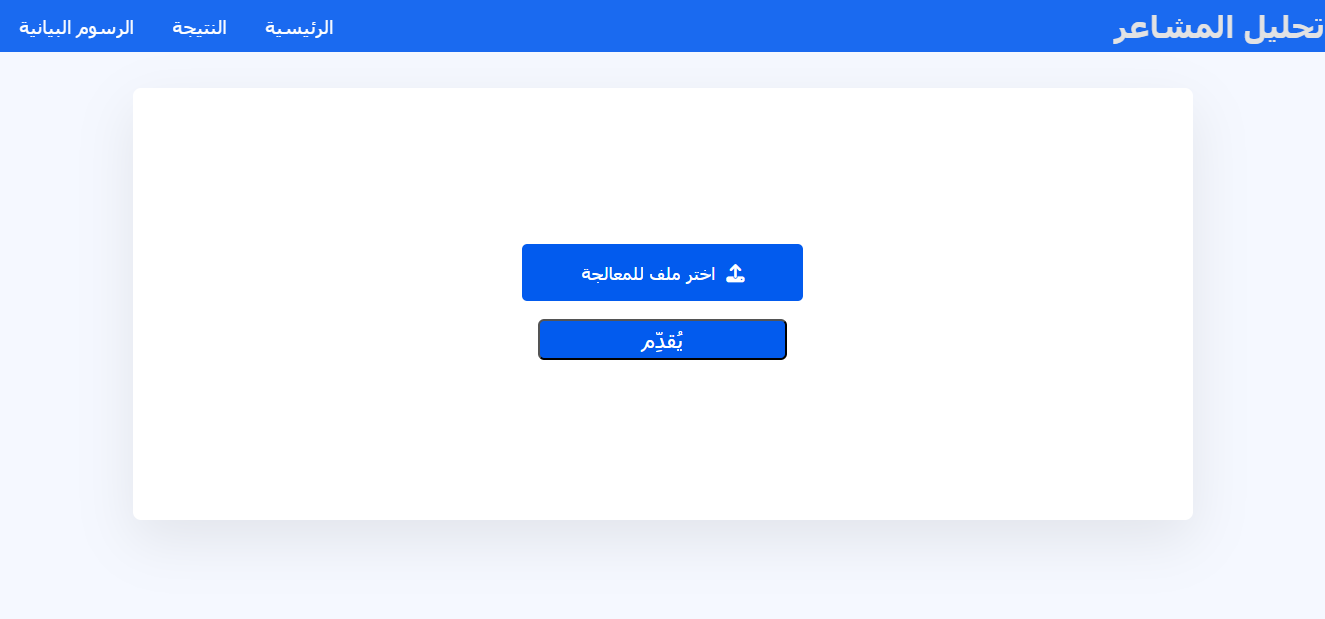
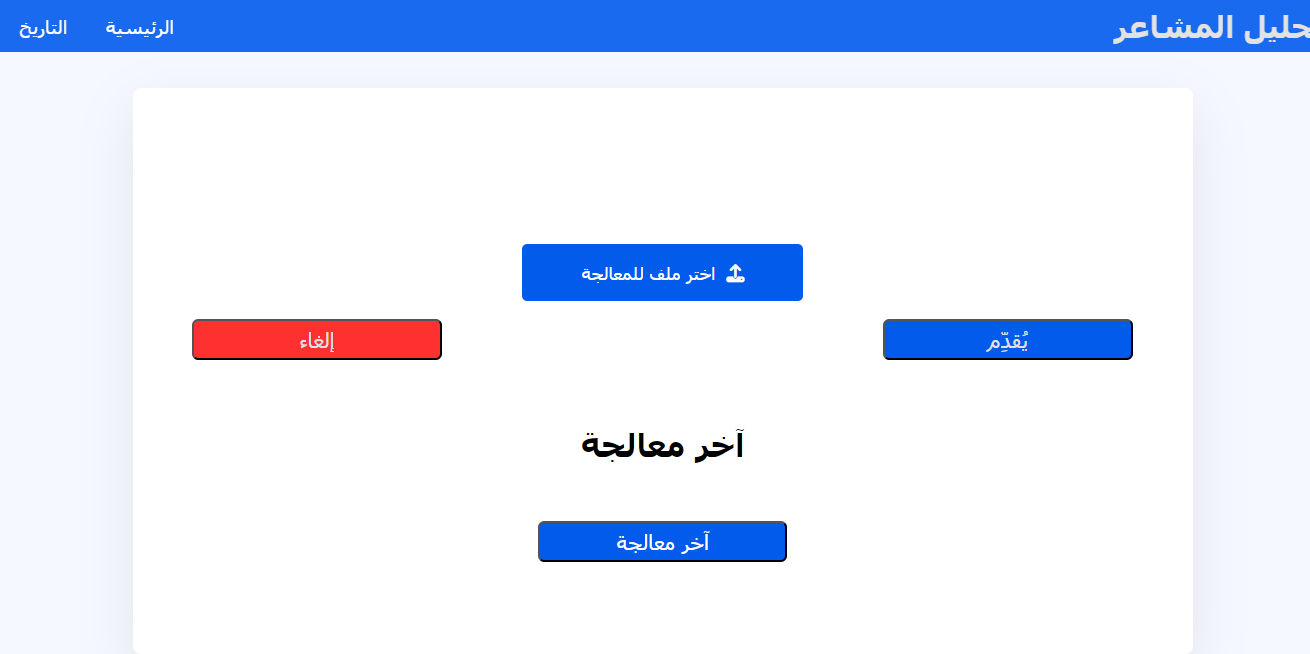
update readme

diff --git a/README.md b/README.md
@@ -60,17 +60,20 @@ first look :
 after upload :
 ![full page after upload](screenshots/fullpageafterUpload.png)
 
+history :
+![history page](screenshots/historypage.png)
 tables :<br>
 
 ![Original tweets table shown](screenshots/OriginalTweets.png)
 ![tweets after deleting the english tweets and every thing that is not table shown](screenshots/ProcessedTweets.png)
 ![tokenization of each tweet table shows](screenshots/Tokens.png)
-![the arabic sentiment analysis table shown](screenshots/SentimentAnalysis.png)
 ![the sentiment analysis](screenshots/word_analysis.png)
+![the arabic sentiment analysis table shown](screenshots/SentimentAnalysis.png)
 
 graphs :
 ![the number of words per tweet bar chart shown](screenshots/WordsNumberChart.png)
 ![the positive and negative tweets pie chart shown](screenshots/Positive_vs_NegativeChart.png)
+![the number of positive and negative words bar chart shown](screenshots/word_analysisChart.png)
 ![the probability of each tweet to be positive or negative bar chart shown](screenshots/ProbabilityChart.png)
 
 ## credits
